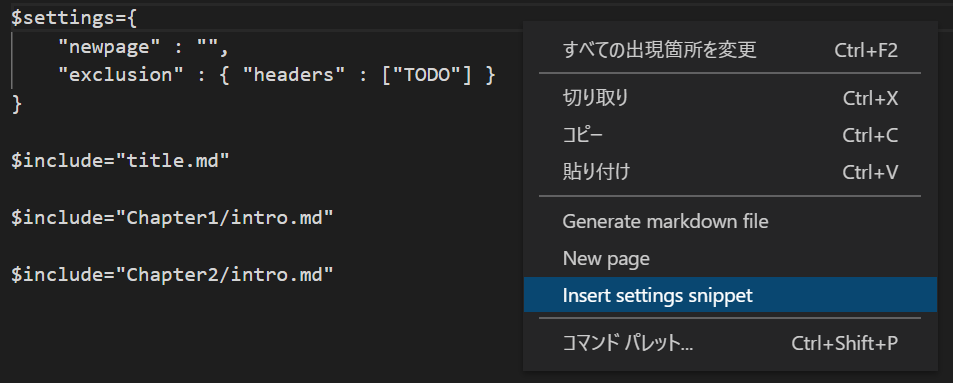
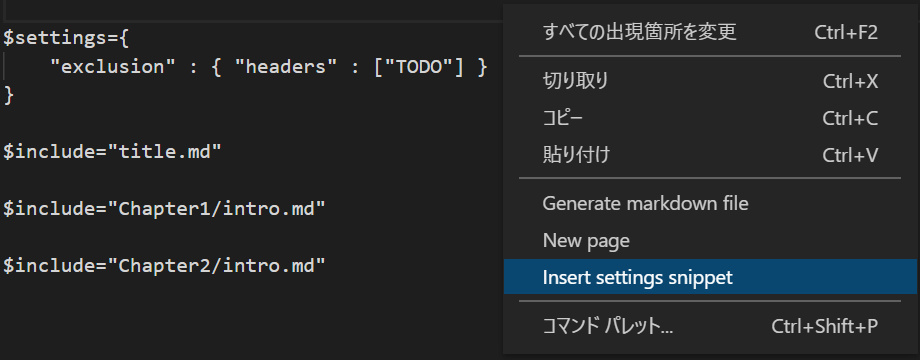
$settings を修正

diff --git a/src/MdcatSettings.ts b/src/MdcatSettings.ts
@@ -7,24 +7,24 @@ export class MdcatSettings
     exclusionHeaders: string[] = [];
     includingFile: string | null = null;
 
-    static snippet(eol: string): string
+    static snippetSettings(eol: string): string
     {
         return '{' + eol
-            + '    "newpage" : "",' + eol
+            + '    "newpage" : null,' + eol
             + '    "exclusion" : { "headers" : [] }' + eol
             + '}' + eol;    
     }
     
+    static snippetNewline(): string
+    {
+        return "<div style=\"page-break-before:always\"></div>";
+    }
 
     loadConfiguration()
     {         
         this.exclusionHeaders = vscode.workspace.getConfiguration().get('markdowncat.exclusion.headers') || [];
 
-        this.newpage = vscode.workspace.getConfiguration().get('markdowncat.newpage') || "";
-        if (this.newpage.trim() == "")
-        {
-            this.newpage = "<div style=\"page-break-before:always\"></div>";
-        }
+        this.newpage = vscode.workspace.getConfiguration().get('markdowncat.newpage') || MdcatSettings.snippetNewline();
     }
 
 

diff --git a/src/insertSettings.ts b/src/insertSettings.ts
@@ -23,6 +23,6 @@ export default function ()
     //console.log(editor.selection)
     editor.edit((editBuilder) => {
         let pos = new vscode.Position(targetLine, 0);
-        editBuilder.insert(pos, "$settings=" + MdcatSettings.snippet(getEOL(doc)));
+        editBuilder.insert(pos, "$settings=" + MdcatSettings.snippetSettings(getEOL(doc)));
     });
 }

diff --git a/src/ExpandMdcat.ts b/src/ExpandMdcat.ts
@@ -157,12 +157,6 @@ export class ExpandMdcat
         return this.settings.load(json);
     }
 
-    getJsonValue(obj: any, key: string): any | null
-    {
-        let keys = key.split(".");
-        
-    }
-
     onNewpage(): void
     {
         var str = this.settings.newpage;
